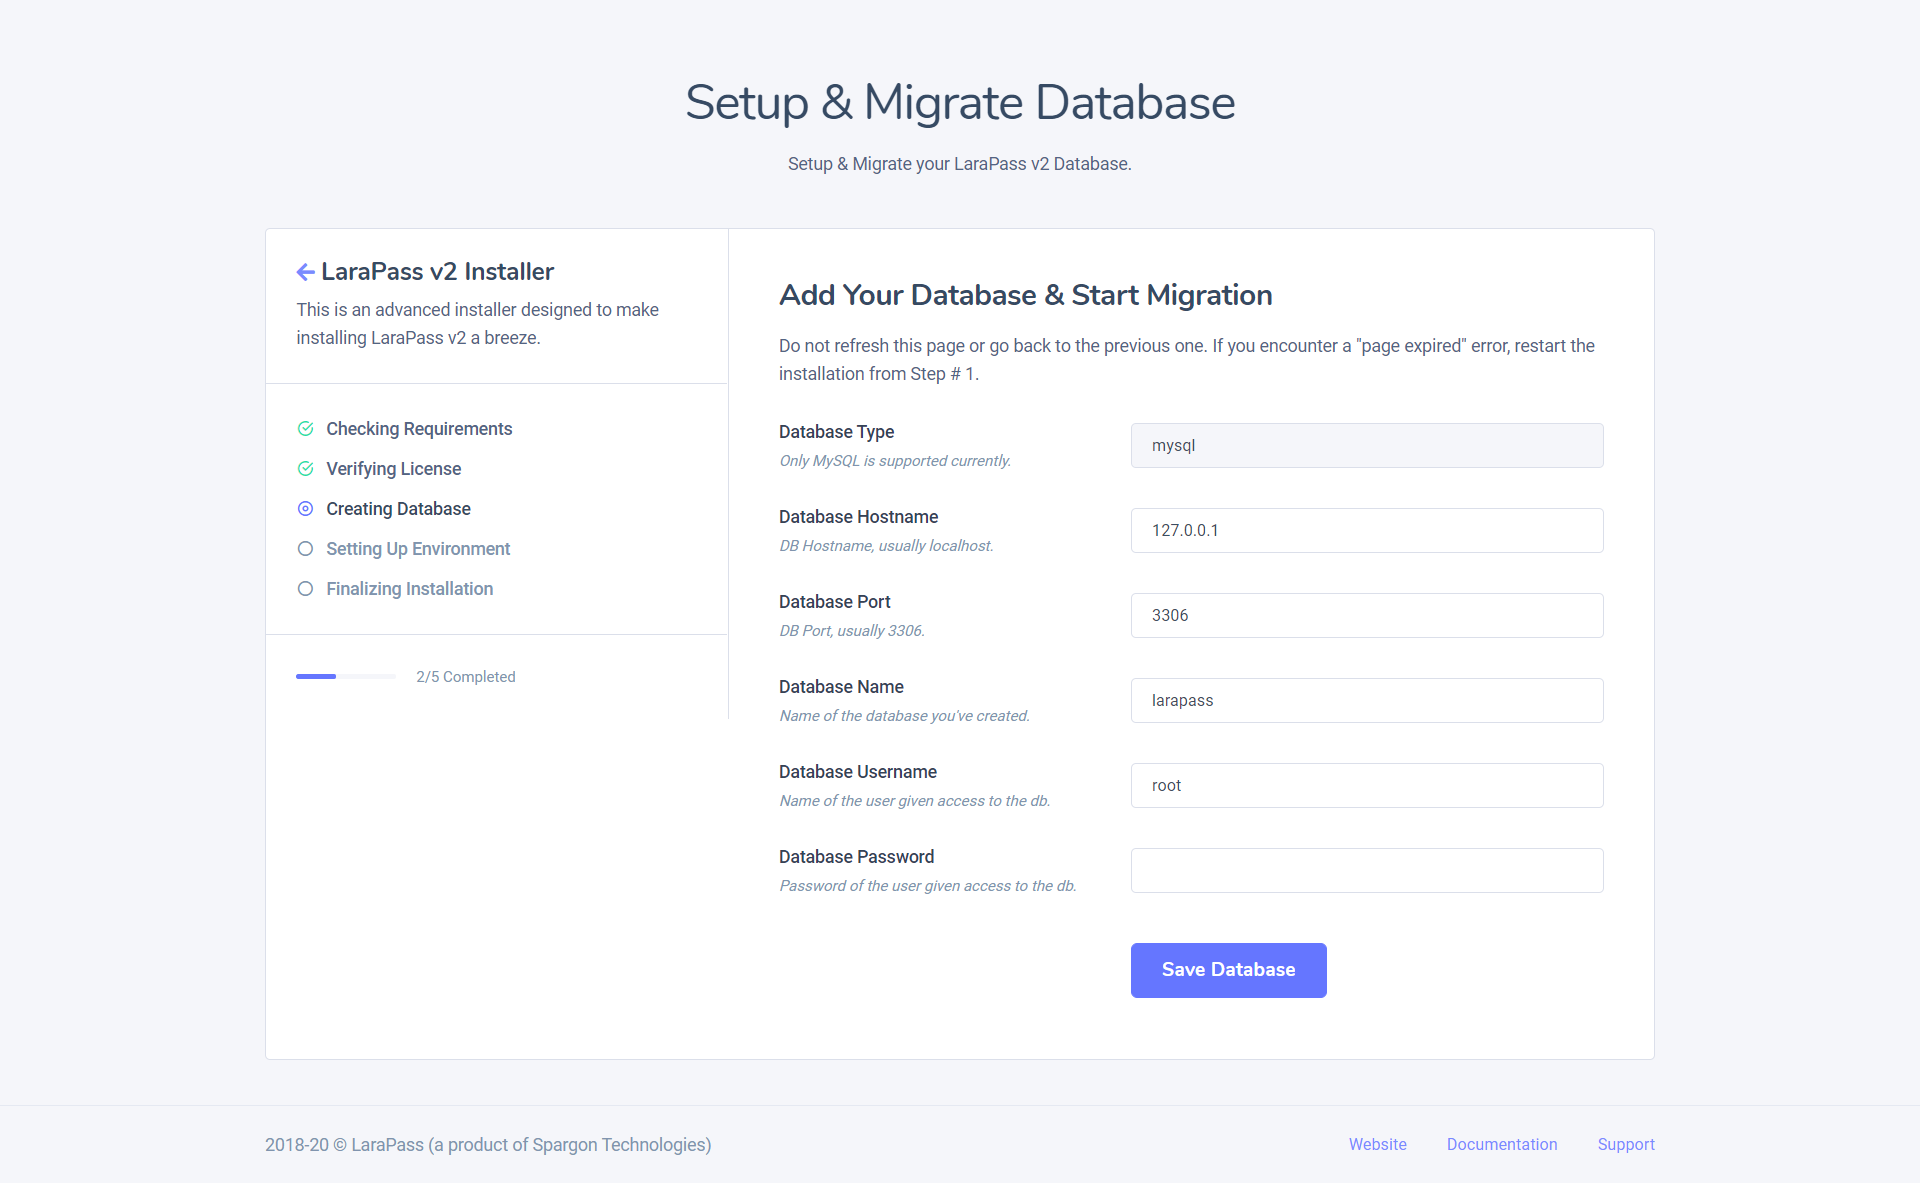
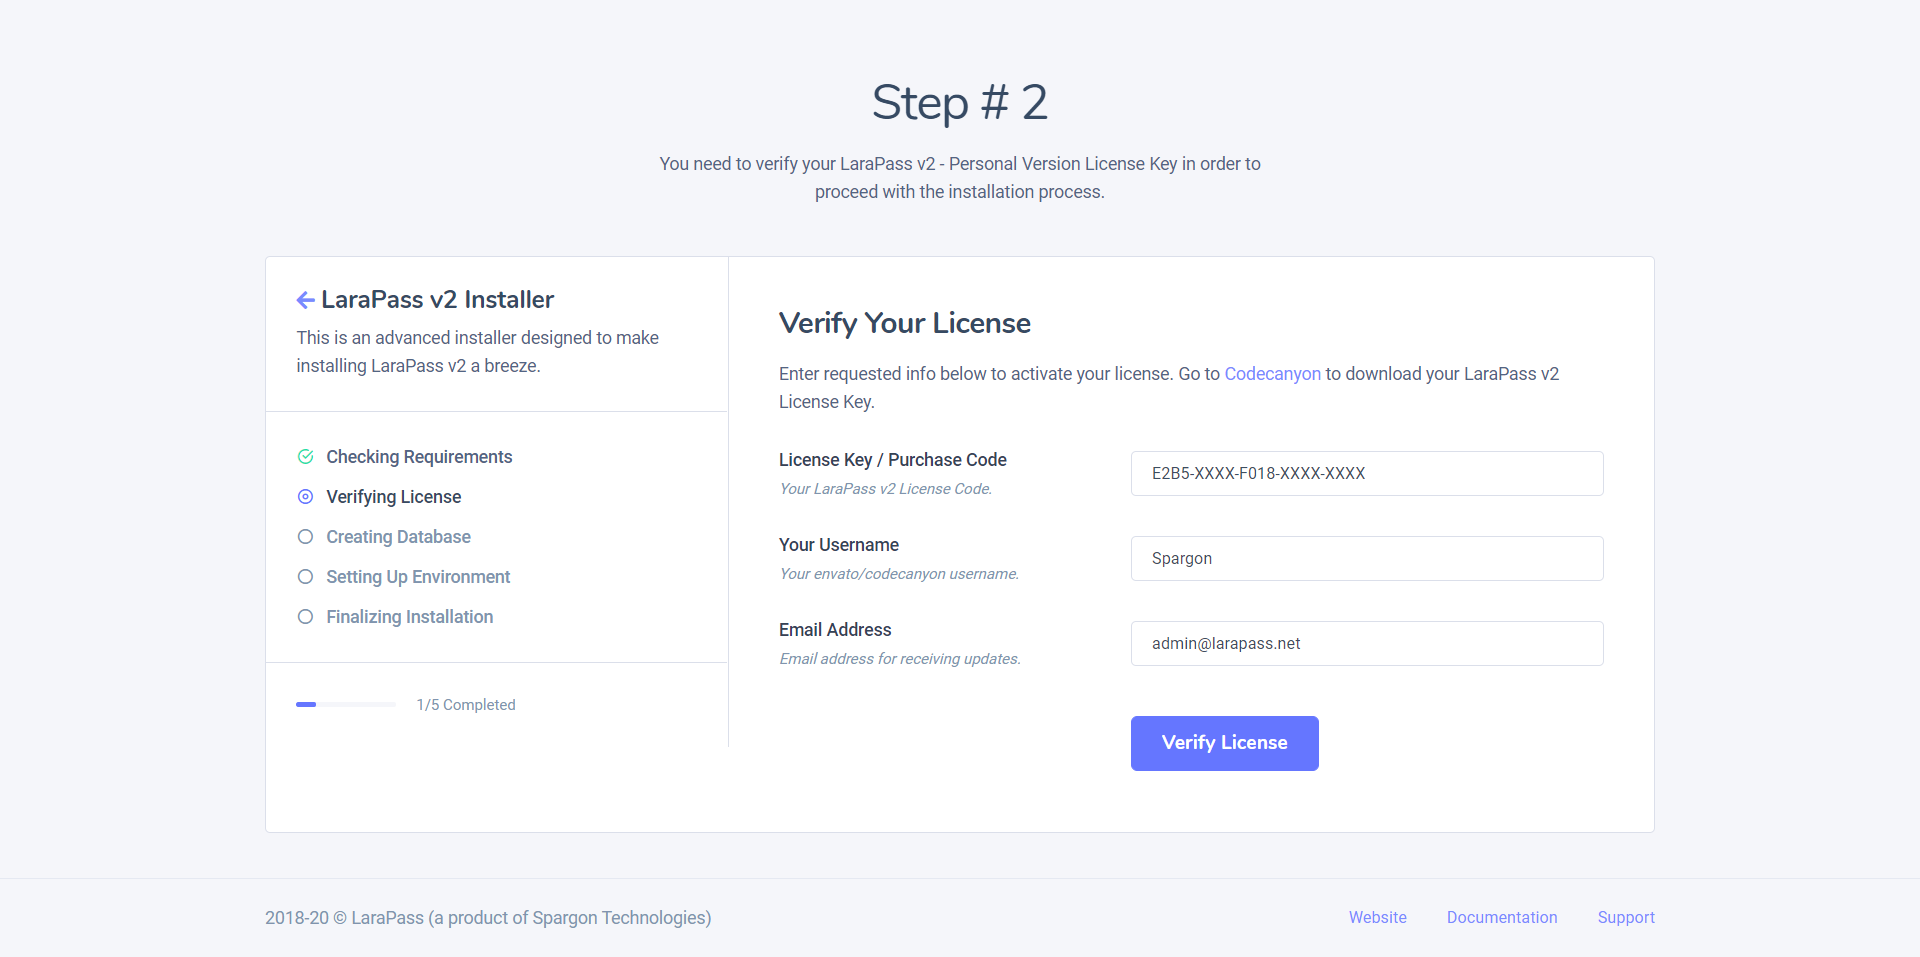
Teams Installation page

diff --git a/resources/docs/teams/installation/overview.md b/resources/docs/teams/installation/overview.md
@@ -1,0 +1,118 @@
+# Installation Overview - Teams Version
+
+Detailed Installation Guide for `LaraPass v2 Teams Version`.
+
+---
+
+- [Downloading](#downloading)
+- [Uploading](#uploading)
+- [Installing](#installing)
+- [Installation Demo Video](#installation-demo)
+- [<a href="https://github.com/larapass/docs/edit/master/resources/docs/teams/installation/overview.md" target="_blank"><i class="fa fa-edit"></i> Help us improve this page!</a>](#)
+
+<a name="downloading"></a>
+## Downloading
+
+Download the latest files of **Larapass v2 Teams Version** from our portal [**`here`**](https://larapass.net/app/downloads) 
+
+> {primary} If you have purchased your LaraPass v2 copy from **Codecanyon**, **Gumroad** or **Codegrape**, you need to first import your license  on our portal to get a valid License Key. You can import your license at [`larapass.net`](https://larapass.net/app/licenses/import)
+
+Extract all the files into a safe location. Also extract the **`laravel_source`** zip_file into a folder (it contains all the main files we will be uploading to our server).
+
+
+---
+
+<a name="uploading"></a>
+## Uploading
+
+Open connection to your server using **`Bitvise SSH Client`** or **`CyberDuck`** or **`FileZilla`**
+
+Navigate to the directory created for your domain. (Ex: for **`demo.larapass.net`**, the server creates the directory **demo.larapass.net**)
+
+Upload all the files & folders you got from the **`larapass_source`** zip_file into the website directory.
+
+> {info} *Becareful not to miss any file or interrupt when uploading files to the server.*
+
+---
+
+<a name="installing"></a>
+## Installing
+
+> {warning} The Installation Steps for all versions of LaraPass v2 are identical. If you have experience installing the Personal Version, the experience with the Teams Version will be no different.  
+
+**`LaraPass v2`** comes with a installer out of the box which helps you to easily install the **`LaraPass v2`** app on any server with just few clicks. 
+
+> {primary} *Ensure your domain / sub-domain is pointing to the `/public` directory inside the larapass app folder. (ex: the domain `demo.larapass.net` points to the directory => `demo.larapass.net/public`*
+
+**Step # 1 -** Navigate to
+
+ ```php
+ yourdomain.com (it will automatically open the installer if the app isnt installed yet)
+ or
+ yourdomain.com/admin/install
+ ```
+![screenshot](/screenshots/installation/installer-1.png)
+
+> {info} It is recommended that you wait for your domain name dns to propagate and use `yourdomain.com/admin/install` route for installing and do use your server ip address to access.
+
+---
+
+**Step # 2 -** If your server meets all the requirements for installing LaraPass v2, click on **`Next Step`** to proceed.
+![screenshot](/screenshots/installation/installer-2.png)
+
+---
+
+**Step # 3 -** Login to your LaraPass Portal at [**`larapass.net`**](https://larapass.net/apps/licenses). Go to **My Licenses** Menu and Add your Domain (without www.) in the Domain Options. You won't be able to verify your license key and install the app on your domain unless you whitelist your domain here.
+![screenshot](/screenshots/installation/installer-3.png)
+
+---
+
+**Step # 4 -** Verify your **`LaraPass v2 Teams Version`** License by entering the License Key your received from us. You can check all your active licenses at [**`larapass.net`**](https://larapass.net/apps/licenses)
+![screenshot](/screenshots/installation/installer-4.png)
+
+---
+
+**Step # 5 -** Once your **`LaraPass v2 Teams Version`** License is verified, you will be asked to setup & migrate your Database. Add these details and click on **Save Database**:
+
+ ```php
+1. Database Hostname : localhost or 127.0.0.1 (confirm with your hosting provider. Its the address that shows up in phpmyadmin)
+2. Database Port : 3306
+3. Database Name : larapass (or the name you used when creating the database in mysql)
+4. Database Username : Username of the user you linked with the database in mysql
+5. Database Password : Password of the user you linked with the database in mysql
+ ```
+![screenshot](/screenshots/installation/installer-5.png)
+
+---
+
+**Step # 6 -** You will get the option to **`Start Database Migration.`** Click on it, if the app is able to connect with your database, it will start the migration process and once its complete, will give you an output of all the migrated and seeder files, otherwise, if the app is unable to connect to the database, it will take you back to the database setup page and inform you of the error (invalid credentials, server down, etc).
+![screenshot](/screenshots/installation/installer-6.png)
+
+---
+
+**Step # 7 -** Setting your **LaraPass v2 Environment** - here you can setup your app name, email address, environment (production recommended), admin login credentails, and outgoing mail driver (you can setup or modify the mail driver later on from your admin settings page).
+![screenshot](/screenshots/installation/installer-7.png)
+
+---
+
+**Step # 8 -** Finally, you need to click on the **`Finish Installation`** button to finalize the app and remove the installer route. You will then be redirected to the login page, where you can login using the admin email and password you used.
+![screenshot](/screenshots/installation/installer-8.png)
+
+This completes your **`LaraPass v2 Teams Version`** Installation process. In the next step we will learn more about configuring your app using your custom logo,etc.
+
+---
+
+<a name="installation-demo"></a>
+## Installation Demo Video
+
+You can watch and follow through our demo installation video on youtube for a quick look at how easy & simple it is to install LaraPass v2 on your server.  
+<br>
+
+<a href="https://youtu.be/5xmODkcd7Ug" target="_blank">
+    <img src="/screenshots/installation/installation-demo.jpg" alt="Installation-Demo-Video" width="240" height="180" border="10" />
+</a>
+
+---
+<br />
+<larecipe-feedback message="Thankyou for your feedback!">
+</larecipe-feedback>

diff --git a/resources/docs/teams/index.md b/resources/docs/teams/index.md
@@ -7,6 +7,8 @@
 - ## Setup
     - [Cloudways](/{{version}}/setup/cloudways)
     - [cPanel Host](/{{version}}/setup/cpanel)
+- ## Installation
+    - [Installation](/{{version}}/installation/overview)
 - ## Multi-Language
     - [Translations](https://github.com/LaraPass/Translations)
 - ## Miscellaneous
